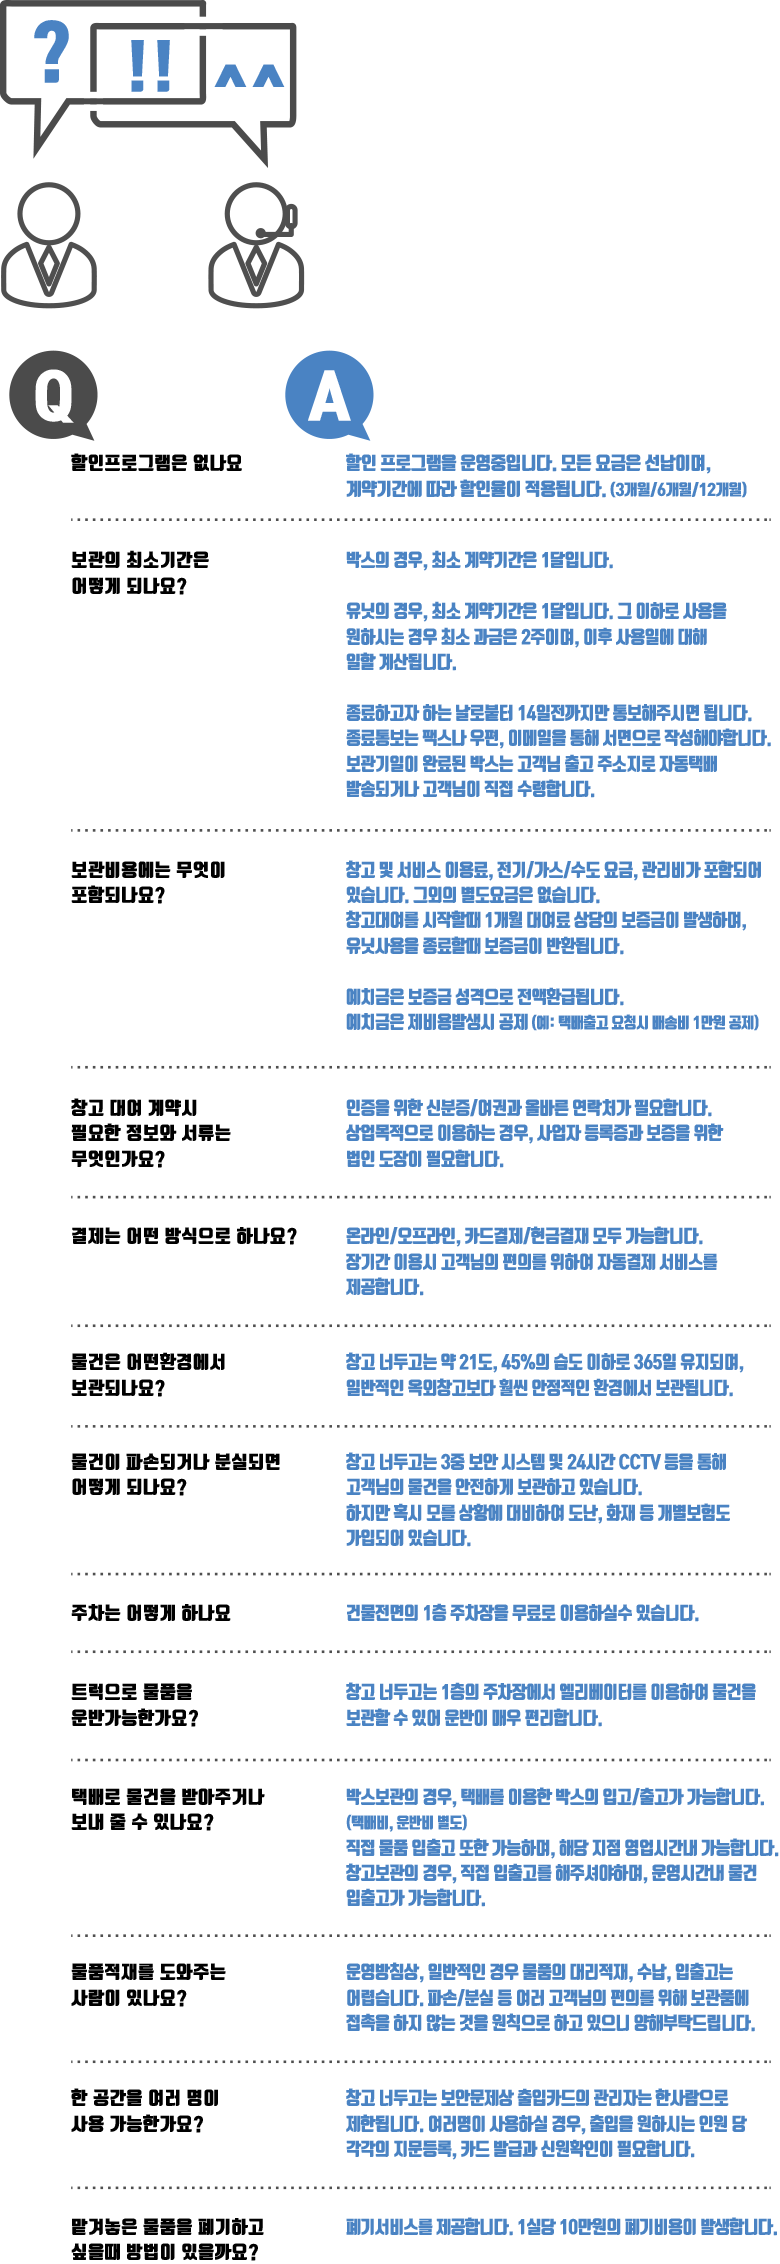
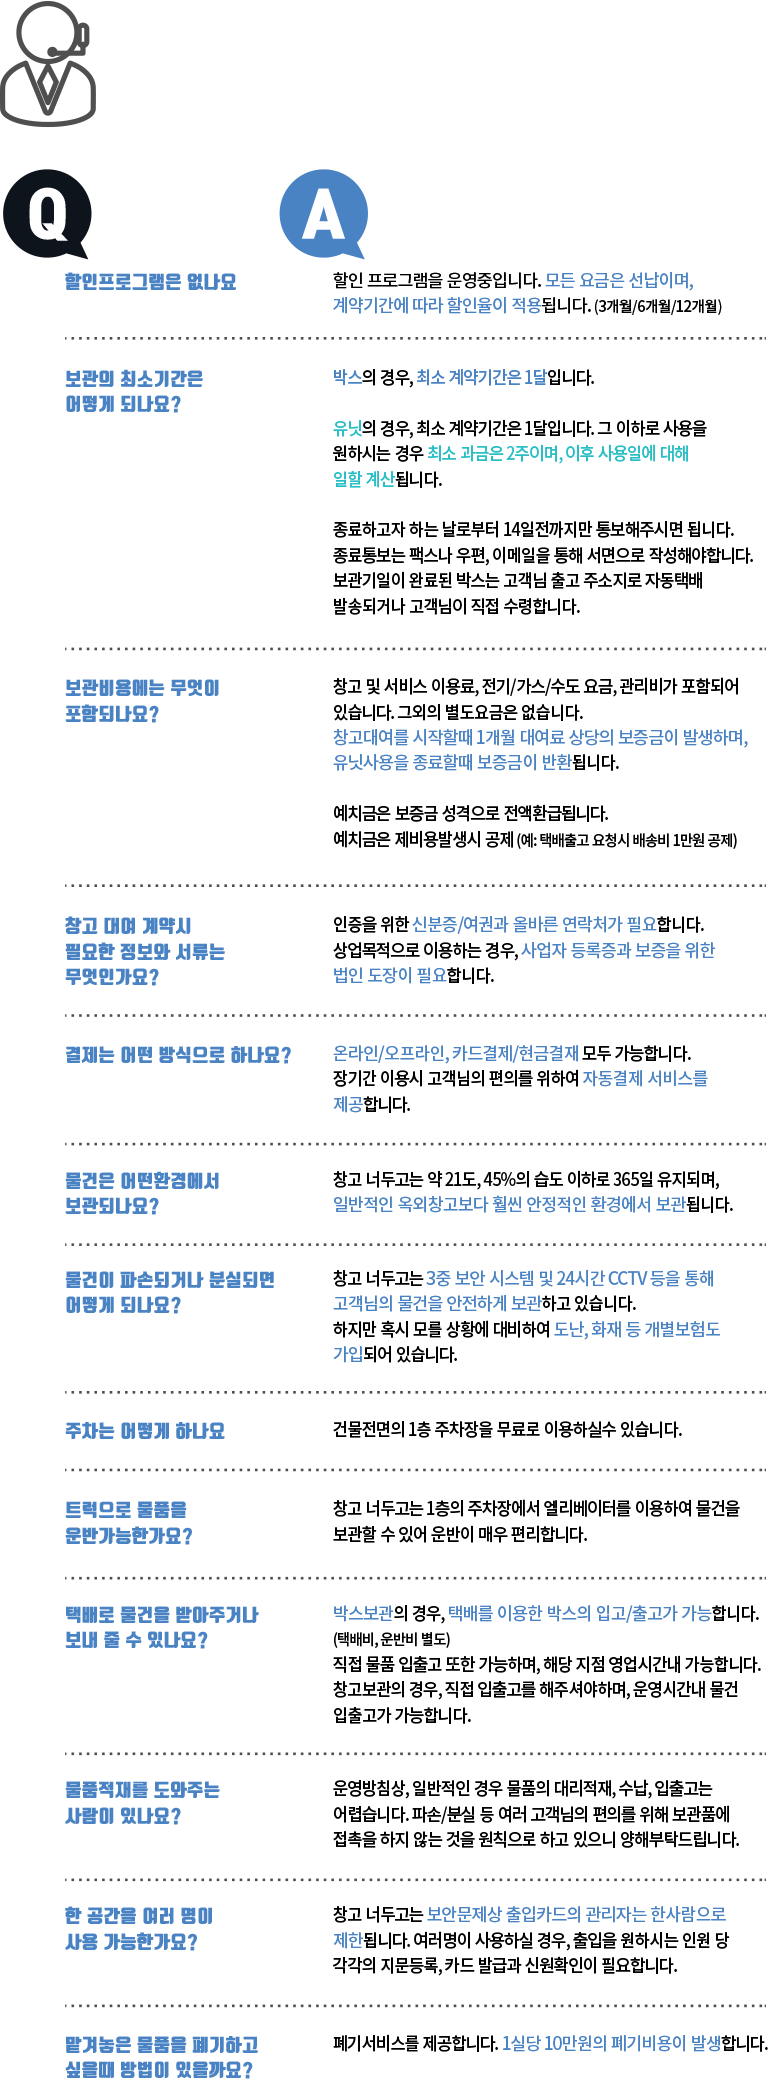
FQA 완료

diff --git a/stylesheets/style.css b/stylesheets/style.css
@@ -432,14 +432,14 @@ body {
 .faq_bg {
   display: block;
   height: 0;
-  padding-top: 2264px;
+  padding-top: 2082px;
   margin: 0em 0em 2em 0em;
   overflow: hidden;
   text-indent: -9999em;
   background-image:  url('img/FAQ_bg.png');
   background-repeat: no-repeat;
   background-position: center;
-  background-size: 780px 2264px;
+  background-size: 768px 2082px;
 }
 
 
